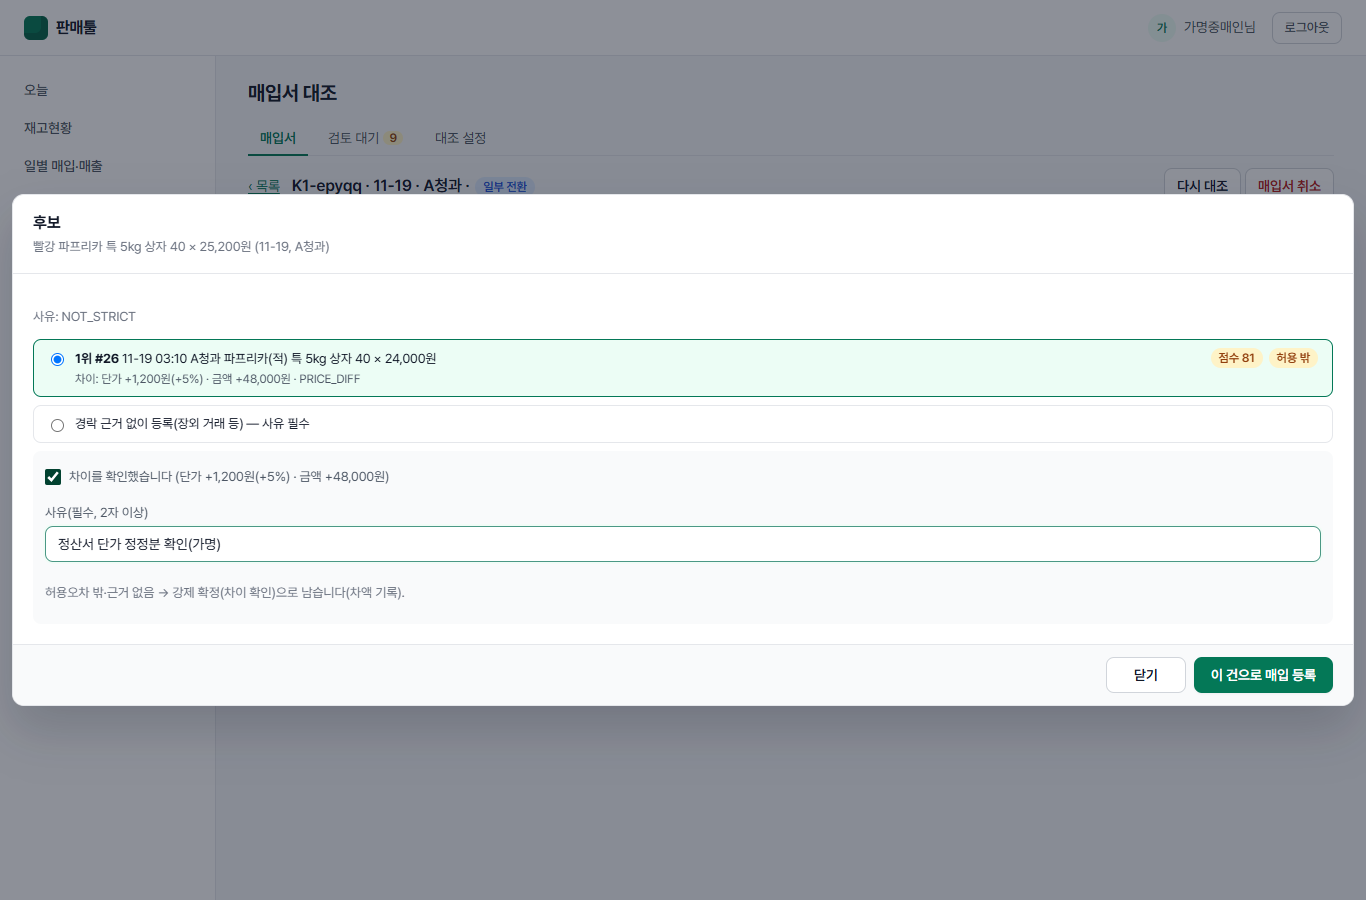
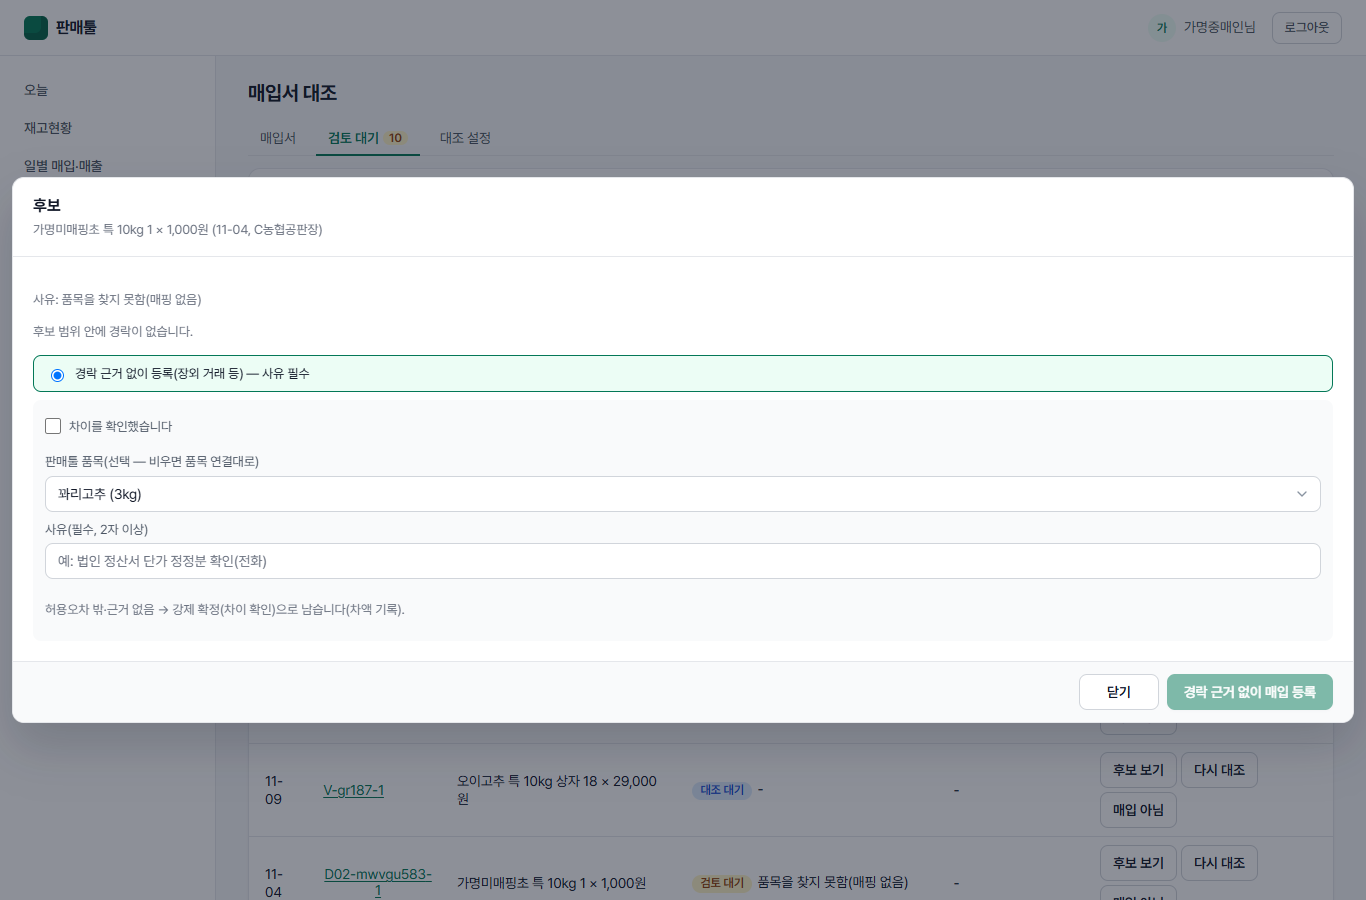
T-203 매뉴얼 후속: 사유 문구 10개·검토 대기 필터 2개, 후보 창 판매툴 품목 칸, 요청 중 탭 잠금·탭 다시 누르기, 경매 전 기준 시각, 수정 뒤 캡처 6장 교체

diff --git a/docs/90. 메뉴얼 관리/매뉴얼/운영자-사용자-매뉴얼.md b/docs/90. 메뉴얼 관리/매뉴얼/운영자-사용자-매뉴얼.md
@@ -11,6 +11,8 @@
 > **S3 대조(2026-11-20 밤):** 목록 검색·페이지(1.3, 2·4.1·5.1·6·8.1), 외상 한도(9.2·9.3, 1.4, 2.1·4.3·5.5), 월 정산(13장), 변경 이력(14장), 입금 안내 보내기(9.7), 직원 계정(1.2, 15장)은 `efd53b5`의 `components/ListPaging.jsx`·`CreditLimitWarning.jsx`·`PaymentReminderModal.jsx`, `pages/Main.jsx`·`TabPartners.jsx`·`PartnerLedger.jsx`·`TabDashboard.jsx`·`MonthlyReport.jsx`·`AuditHistory.jsx`·`Login.jsx`·`StaffSetup.jsx`·`TabStaff.jsx`, `lib/staffAccess.js`와 서버 `lib/access.js`·`staff-routes.js`·`payment-reminder-routes.js`의 문구를 그대로 옮겼습니다. 이 화면들도 아직 캡처가 없습니다(📷).
 >
 > **T-203 대조(2026-11-25):** 경락 시세(17장)·매입서 대조(18장)·매입 등록(매입전환)(19장)·대조 설정(20장)·역할(21장)·문제 대응(22장)은 `ai/T-203-integration`(`a065bc8`)의 `pages/TabAuction.jsx`·`AuctionSyncStatus.jsx`·`TabPurchaseDocs.jsx`·`MatchSettings.jsx`, `components/PurchaseDocUpload.jsx`·`MatchCandidateModal.jsx`·`ReviewQueue.jsx`·`MatchBits.jsx`, `lib/matchLabels.js`와 서버 `lib/auction/routes.js`·`lib/purchase-match/*.js`·`lib/access.js`의 문구를 그대로 옮겼습니다. 캡처(`images/17-*`~`22-*`)는 테스트 서버(목업 경락·가명 데이터)에서 찍은 실제 화면입니다.
+>
+> **T-203 수정 반영(2026-11-25 오후):** 테스트에서 찾은 결함을 고친 `ai/T-203-fix`(`f73d45a`)의 `lib/matchLabels.js`(사유 문구 10개·검토 대기 사유 필터 2개), `components/MatchCandidateModal.jsx`(판매툴 품목 칸), `pages/Main.jsx`·`TabPurchaseDocs.jsx`(요청 중 탭 잠금·탭 다시 누르기), `pages/TabAuction.jsx`(경매 전 기준 시각)와 대조해 1.3·17.1·18장을 고쳤습니다. 캡처 6장(`17-auction-empty-holiday`·`18-pdoc-result`·`18-pdoc-candidate`·`18-pdoc-candidate-out`·`18-pdoc-review`·`19-purchase-badge`)은 고친 뒤 다시 찍은 화면입니다.
 
 ---
 
@@ -51,7 +53,7 @@
 | **경락 시세** 탭 새로 생김 | 매입정보 다음 탭 | 가락시장 고추·파프리카 경락(낙찰 건)을 기간·품종·등급·규격·법인·산지로 조회. “몇 시 기준 · 당일 집계(확정 전)/확정” 표시, 경매 전·휴장·데이터 없음 문구 구분, 참고 시세 | 17.1 |
 | **수집 현황** | 경락 시세 → 수집 현황 | 소스별 상태(정상·잠시 멈춤·API 키 확인 필요)와 날짜별 수집 결과·작업 목록. 주인은 **지금 받기**(5분에 1번)·**다시 실행** | 17.2, 22 |
 | **매입서 대조** 탭 새로 생김 | 경락 시세 다음 탭 | 법인 정산서를 엑셀/CSV로 올리거나 직접 입력 → 경락과 줄마다 대조해 **완전 / 부분 / 미매칭** 판정·점수·사유 표시 | 18.1–18.3 |
-| **검토 대기 · 후보 창** | 매입서 대조 → 검토 대기 | 자동으로 못 맞춘 줄을 모아 봄. 주인이 후보를 골라 **수동 확정**(허용 밖이면 차이 확인 + 사유), 아니면 **매입 아님** | 18.4 |
+| **검토 대기 · 후보 창** | 매입서 대조 → 검토 대기 | 자동으로 못 맞춘 줄을 모아 봄. 주인이 후보를 골라 **수동 확정**(허용 밖이면 차이 확인 + 사유), 아니면 **매입 아님**. 경락 근거 없이 등록할 때는 **판매툴 품목**을 직접 고를 수 있음 | 18.4 |
 | **매입 등록(매입전환)** | 대조 결과 → 매입 등록 | 대조된 줄로 판매툴 **매입**을 만듦(완전일치는 자동). 매출로 바꾸는 “선택 매출 전환”과 다른 기능. 한 줄은 한 번만 등록 | 19.1 |
 | 매입정보 **「매입서」 배지** | 매입정보 목록 상품 옆 | 매입서로 만든 매입 표시. 누르면 그 매입서 대조 결과로 이동 | 19.2 |
 | **전환 취소 · 매입서 취소** | 대조 결과(주인) | 등록한 매입을 되돌림(재고·미지급도). 매출로 나갔거나 지급이 있으면 막히고 먼저 할 일을 안내 | 19.3 |
@@ -117,6 +119,7 @@
 | 헤더 | 서비스명(판매툴), **상호명 + “님”**, 우측 **로그아웃** — 로그인 정보를 지우고 로그인 화면으로 이동. 직원으로 로그인했으면 **직원 이름 · 역할(입력 전용/조회 전용) · 상호명**이 보임 |
 | 탭 | **오늘 · 재고현황 · 일별 매입·매출 · 월 정산 · 매입정보 · 경락 시세 · 매입서 대조 · 매출정보 · 수금정보 · 지급정보 · 폐기정보 · 거래처 · 변경 이력 · 직원 관리** (첫 화면은 **오늘**, 1.4. 경락 시세는 17장, 매입서 대조는 18~20장) |
 | 본문 | 선택한 탭의 필터·버튼·테이블·모달 |
+| 요청 처리 중 | 매입서 대조 결과에서 매입 등록·다시 대조·전환 취소 같은 요청을 처리하는 동안에는 다른 탭이 흐려지고 눌리지 않습니다(마우스를 올리면 “요청을 처리하는 중입니다. 끝난 뒤 이동하세요.”). 끝나면 다시 이동할 수 있습니다(18장) |
 
 **관리자:** 맨 끝에 `상품 마스터` 탭이 추가로 보입니다.
 **직원:** **변경 이력 · 직원 관리 · 상품 마스터** 탭이 보이지 않고, 역할에 없는 버튼도 숨겨집니다(15.3).
@@ -1111,7 +1114,7 @@
 
 | 표시 | 뜻 |
 |---|---|
-| “ⓘ MM-DD HH:mm 기준” | 이 결과를 받은 시각 |
+| “ⓘ MM-DD HH:mm 기준” | 이 결과를 받은 시각. 아직 받은 결과가 없는 날(경매 전·집계 전)에는 기준 시각이 표시되지 않고 아래 빈 결과 문구만 보입니다 |
 | **당일 집계(확정 전)** (파랑) | 오늘 경매를 1시간 간격으로 받은 중간 결과. 바뀔 수 있음 |
 | **확정** (초록) | 다음 날 다시 받은 확정 결과. 자동 매입 등록은 확정 결과로만 합니다(19.1) |
 | **이전 수집 결과(수집 지연)** (노랑) | 이번 수집이 실패했거나 진행 중이라 **마지막으로 정상 수집한 결과**를 보여 주는 중. 마우스를 올리면 설명 |
@@ -1193,6 +1196,9 @@
 ## 18. 매입서 대조 탭
 
 법인 정산서·거래명세서 같은 **매입서**를 엑셀/CSV로 올리거나 직접 입력하면, 판매툴이 경락(17장)과 한 줄씩 맞춰 보고(**대조**) 맞는 줄을 판매툴 **매입**으로 등록합니다(19장). 탭 위에서 **매입서 / 검토 대기 (N) / 대조 설정**을 고릅니다. 검토 대기 옆 숫자는 사람이 확인해야 할 줄 수입니다.
+
+- 대조 결과에서 요청을 처리하는 동안(매입 등록·다시 대조·전환 취소 등)에는 **다른 탭으로 이동할 수 없습니다**. 결과 문구를 본 뒤 이동하세요(1.3).
+- 매입서 상세(대조 결과)에 들어가 있을 때 왼쪽 **매입서 대조** 탭을 다시 누르면 **매입서 목록**(첫 화면)으로 돌아갑니다.
 
 ### 18.1 매입서 목록과 올리기
 
@@ -1315,6 +1321,16 @@
 | 목업 데이터라 자동 등록 안 함 | 목업 경락 | 실제 키가 등록된 뒤 대조 |
 | 경락 값 바뀜(전환 뒤 정정) | 이미 등록한 줄의 경락이 원천에서 정정됨 | 매입 금액이 맞는지 확인. 자동으로 고치지 않음 |
 | 전환 뒤 매입정보에서 정정됨 | 등록한 매입을 매입정보에서 수정함 | 확인용 표시 |
+| 허용오차 안 후보 없음(주인 확인) | 후보는 있지만 모두 허용오차(20.1) 밖 | 후보 창에서 차이를 보고 맞으면 차이 확인 + 사유로 확정. 정산서가 틀렸으면 줄 수정 |
+| 단가 차이(검토 범위 안) | 단가가 다르지만 후보로 보여 줄 범위 안 | 후보 창의 “차이”를 정산서와 비교해 확정 |
+| 수량 차이(검토 범위 안) | 수량이 다르지만 후보로 보여 줄 범위 안 | 같은 방법으로 확인. 나눠 받은 건이면 확정 |
+| 날짜 차이(자동 범위 밖) | 거래일과 경락일이 자동 등록 범위보다 많이 떨어짐 | 거래일이 맞는지 확인 → 틀렸으면 줄 수정, 맞으면 후보 창에서 확정 |
+| 내 중매인 번호로 낙찰된 경락 없음 | 후보 경락의 낙찰자가 내 중매인 번호(또는 줄에 적은 낙찰자번호)와 다름 | 다른 중매인 낙찰분이면 **매입 아님**. 낙찰자번호를 잘못 적었으면 줄 수정 |
+| 법인 확인 안 됨 | 매입서 제공처와 경락 법인이 같은 법인인지 확인되지 않음(제공처의 법인 연결이 없음 등) | 대조 설정 → 법인 연결(20.3) 뒤 다시 대조 |
+| 등급 모름(한쪽 등급 없음) | 매입서나 경락 중 한쪽에 등급이 없거나, 매입서 등급을 알아볼 수 없음(특·상·중·하·등외가 아님) | 정산서 등급을 확인해 필요하면 줄 수정 |
+| 품종 모름(한쪽 품종 없음) | 매입서나 경락 중 한쪽에 품종이 없음 | 품목 이름이 맞는지 확인 후 확정 |
+| 규격 환산 시 수량·금액이 딱 맞지 않음 | 매입서 규격을 내 품목 단위로 바꾸면 수량이 딱 나누어떨어지지 않거나 금액이 어긋남 — 그대로는 매입 등록이 되지 않음 | 규격·수량을 확인해 줄 수정 후 다시 대조. 내 품목 단위가 맞는지 대조 설정 → 품목 연결(20.2)도 확인 |
+| 경락 근거 없이 등록 | 후보 창에서 경락 근거 없이 등록한 줄(장외 거래 등) | 확인용 표시. 사유는 이력에 남음 |
 
 ### 18.4 검토 대기와 후보 창
 
@@ -1324,7 +1340,7 @@
 
 | 칸·버튼 | 설명 |
 |---|---|
-| **사유** 필터 | 전체 · 후보 여러 건 · 단가 차이 · 규격 다름 · 기준 데이터 없음 · 품목 연결 없음 · 경락 값 바뀜 · 품목 매핑 없음 |
+| **사유** 필터 | 전체 · 후보 여러 건 · 단가 차이 · 규격 다름 · 기준 데이터 없음 · 품목 연결 없음 · 경락 값 바뀜 · 품목 매핑 없음 · 허용오차 안 후보 없음 · 내 중매인 번호 경락 없음 |
 | **거래일** 기간 · **새로고침** | |
 | 표 열 | 거래일 · 매입서-줄(누르면 그 매입서 대조 결과로) · 품목 · 사유(상태 배지 + 사유) · 차이(예: “단가 +1,200원 (+5%)”) · 동작 |
 | **후보 보기** | 후보 창. 사유가 “기준 데이터 아직 없음 / 확정 전”뿐이면 버튼 대신 “확정 수집 뒤 자동 재대조” |
@@ -1335,7 +1351,7 @@
 
 **후보 창 (수동 확정 — 주인만)**
 
-![후보 창 — 허용 밖](images/18-pdoc-candidate.png)
+![후보 창 — 허용 밖 후보](images/18-pdoc-candidate-out.png)
 
 | 요소 | 설명 |
 |---|---|
@@ -1343,12 +1359,18 @@
 | 후보 목록 | “N위 #경락번호 날짜 시각 법인 품종 등급 규격 수량 × 단가원”, **점수 N**, **허용오차 안**(초록) / **허용 밖**(노랑), “차이: 단가 +1,200원(+5%) · 금액 +48,000원”. 다른 줄이 쓰는 건은 “다른 줄이 사용 중” |
 | **경락 근거 없이 등록(장외 거래 등) — 사유 필수** | 맞는 경락이 없을 때 |
 | **차이를 확인했습니다 (…)** | **허용 밖 후보**나 **근거 없이 등록**을 고르면 나타남. 체크해야 등록 버튼이 켜짐 |
+| **판매툴 품목** | **근거 없이 등록**을 고르면 나타남. 이 줄로 만들 매입의 내 판매툴 품목(공용 품목 + 내 개인 품목). 비워 두면 품목 연결(20.2)대로 등록. 품목 연결이 없는 줄이면 꼭 골라야 함(아래) |
 | **사유** | 허용 밖·근거 없음이면 필수(2자 이상, 예: “법인 정산서 단가 정정분 확인(전화)”), 허용 안이면 선택 |
 | 아래 안내 | “허용오차 안 → 수동 확정으로 남습니다.” / “허용오차 밖·근거 없음 → 강제 확정(차이 확인)으로 남습니다(차액 기록).” |
 | **이 건으로 매입 등록** / **경락 근거 없이 매입 등록** | 누르면 매입 등록 → “매입 등록했습니다(매입 #N, 수동 확정).” 요청 중에는 창을 닫을 수 없음 |
 
 - 입력·조회 직원은 후보를 볼 수만 있고 “수동 확정은 중매인(주인) 확인이 필요합니다.”가 보입니다.
-- 근거 없이 등록할 때도 매입에 쓸 **판매툴 품목**이 필요합니다. 품목 연결이 없으면 “판매툴 품목 연결이 없습니다(대조 설정 → 품목 연결).”가 나옵니다. 품목 이름을 못 찾은 줄(“품목 미확인”)이면 관리자에게 품목 매핑(20.4)을 요청하고, 그다음 품목 연결(20.2) → **다시 대조** 순서로 하세요.
+- 근거 없이 등록할 때도 매입에 쓸 **판매툴 품목**이 필요합니다. 품목 이름을 못 찾은 줄(“품목 미확인”)이나 품목 연결이 없는 줄은 **판매툴 품목** 칸에서 품목을 고른 뒤 **경락 근거 없이 매입 등록**을 누르면 바로 끝낼 수 있습니다.
+- 품목을 고르지 않고 누르면 “판매툴 품목 연결이 없습니다. 위 "판매툴 품목"에서 고르거나 대조 설정 → 품목 연결에서 연결하세요.”가 나오고 칸 이름이 “판매툴 품목(필수 — 품목 연결이 없는 줄)”로 바뀝니다. 품목을 고르고 다시 누르세요.
+- 같은 품목 이름이 자주 나오면 관리자에게 품목 매핑(20.4)을 요청하고 품목 연결(20.2)을 해 두세요. 그러면 다음 매입서부터는 품목을 고르지 않아도 자동으로 대조·등록됩니다.
+- 품목을 잘못 골라 등록했으면 **전환 취소**(19.3)로 되돌린 뒤 다시 등록합니다.
+
+![후보 창 — 경락 근거 없이 등록, 판매툴 품목 선택](images/18-pdoc-candidate.png)
 
 ---
 
@@ -1511,6 +1533,8 @@
 | 품목 매핑 없음 | 매입서 품목 이름이 낯섦 | 관리자에게 매핑 요청(20.4) |
 | 단가 차이 · 규격 다름 | 정산서 단가가 경락과 조금씩 다름 | 차이가 늘 같은 이유(예: 정산 단가 정정)라면 주인이 허용오차(20.1)의 **단가 자동 %**를 조금 올림. 올릴수록 확인 없이 등록되는 범위가 넓어지니 작게 |
 | 중량 모름 | 규격에 kg가 없음 | 매입서 규격에 “10kg 상자”처럼 중량을 적어 올리기 |
+| 허용오차 안 후보 없음 | 후보는 있지만 모두 허용오차 밖(단가·수량·날짜 차이) | 후보 창에서 차이를 확인해 확정. 같은 이유로 계속 쌓이면 위 “단가 차이”처럼 허용오차(20.1)를 조금 넓힘 |
+| 내 중매인 번호 경락 없음 | 매입서 줄이 다른 중매인 낙찰분이거나 낙찰자번호를 잘못 적음 | 다른 중매인 낙찰분이면 **매입 아님**. 낙찰자번호 칸을 비우면 내 중매인 번호로 대조 |
 
 ---
 

diff --git a/docs/90. 메뉴얼 관리/매뉴얼/README.md b/docs/90. 메뉴얼 관리/매뉴얼/README.md
@@ -10,6 +10,7 @@
 
 - `images/00-*`~`06-*.png` — 2026-11-20 이전 화면 캡처.
 - `images/17-*`~`22-*.png` — 2026-11-25 경락 시세·매입서 대조 화면. 테스트 서버(목업 경락·가명 데이터, 1366px)에서 찍은 실제 화면입니다(`18-pdoc-manual.png`만 화면 개발 단계의 목업 응답 캡처). 운영 데이터·실명은 들어 있지 않습니다.
+  - 결함 수정 뒤(`ai/T-203-fix` `f73d45a`, 2026-11-25 오후) 다시 찍은 6장: `17-auction-empty-holiday`·`18-pdoc-result`·`18-pdoc-candidate`(근거 없이 등록 + 판매툴 품목)·`18-pdoc-candidate-out`(허용 밖 후보)·`18-pdoc-review`(검토 대기 목록)·`19-purchase-badge`(매입정보의 「매입서」 배지). 같은 테스트 서버·가명 데이터입니다.
 
 ## 삽화(SVG)
 
